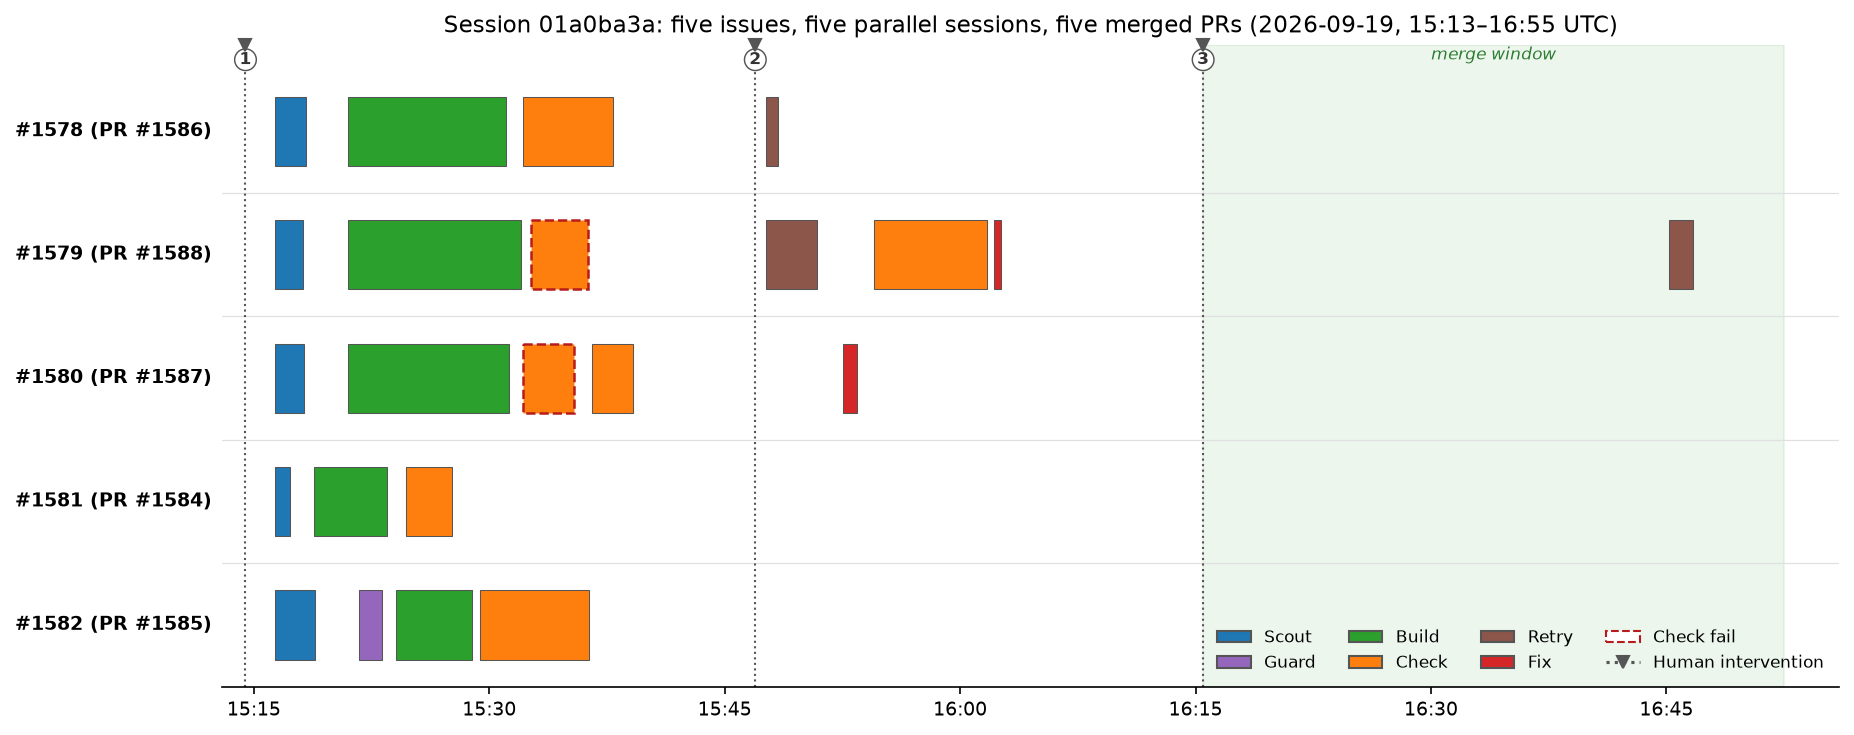
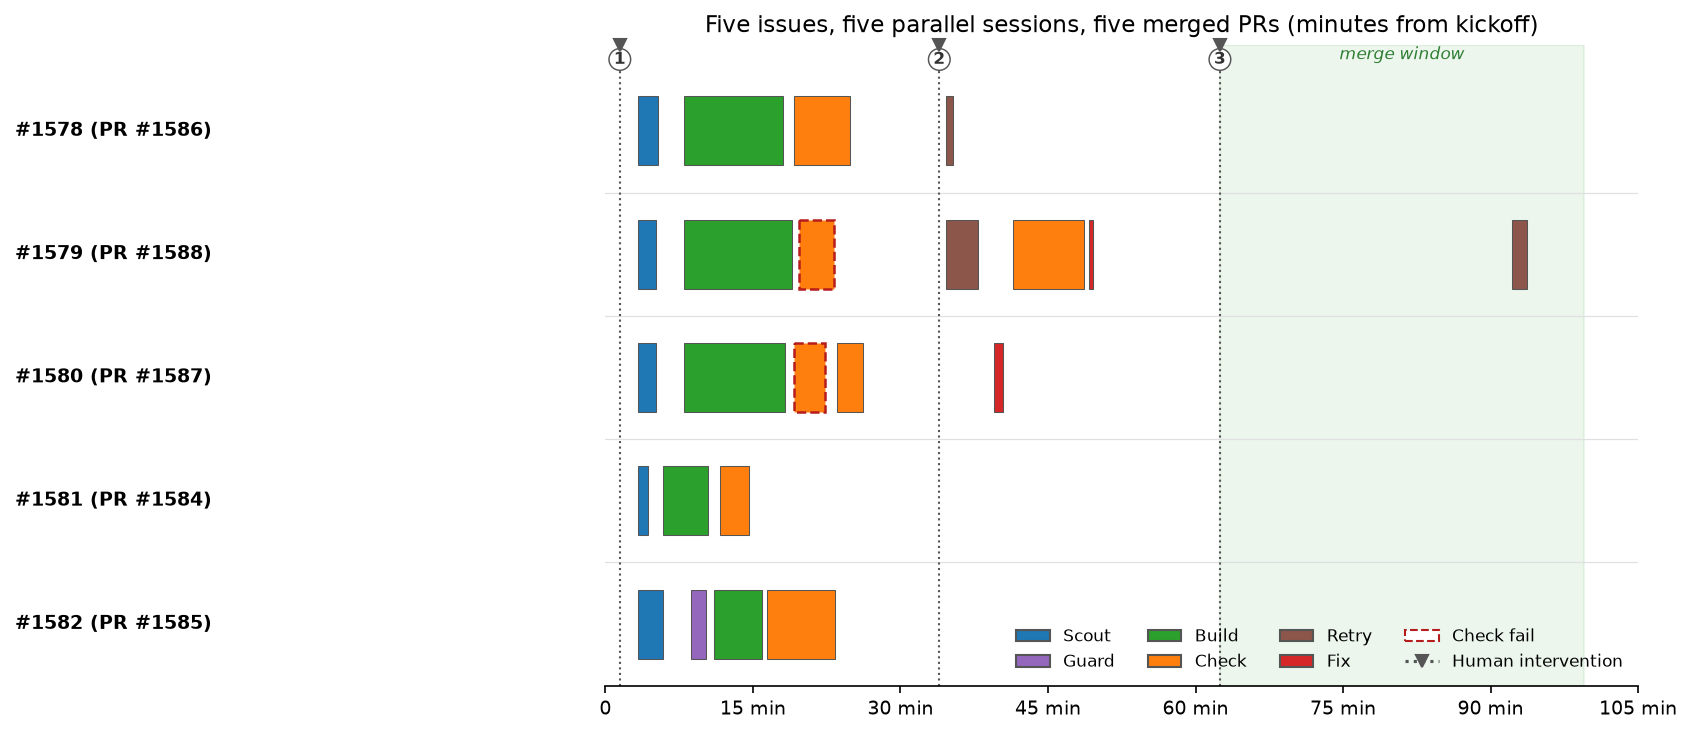
docs(examples): plot timeline in minutes from kickoff, drop clock times
Relative time is clearer and the run is not an audit; also fix a leftover
'16 subagent spawns' in the intro paragraph.

diff --git a/figures/fig-session-timeline.py b/figures/fig-session-timeline.py
@@ -12,8 +12,11 @@ import matplotlib.pyplot as plt
 from matplotlib.patches import Patch
 
 def t(hhmmss):
+    """Minutes since session start (15:13:00), the figure's t=0."""
     h, m, s = map(int, hhmmss.split(":"))
-    return h * 3600 + m * 60 + s
+    return (h * 3600 + m * 60 + s - t.ZERO) / 60.0
+
+t.ZERO = 15 * 3600 + 13 * 60
 
 # (start, end, kind, row) -- rows: 0..4 = lanes for #1578 #1579 #1580 #1581 #1582.
 # Kinds: SCOUT, GUARD, BUILD, CHECK; suffix "_FAIL" draws a hatched red overlay.
@@ -67,8 +70,8 @@ INTERVENTIONS = [
     ("16:15:29", "authorize ordered merge"),
 ]
 
-T0, T1 = t("15:13:00"), t("16:56:00")
-MERGE0, MERGE1 = t("16:15:29"), t("16:52:30")
+T0, T1 = 0, t("16:56:00")
+MERGE0, MERGE1 = t("16:15:29"), t("16:52:30")  # relative minutes
 
 fig, ax = plt.subplots(figsize=(12.5, 5.0))
 ax.set_xlim(T0, T1)
@@ -109,9 +112,8 @@ for i, (ts, label) in enumerate(INTERVENTIONS, 1):
             fontsize=8, fontweight="bold", color="#333333",
             bbox=dict(boxstyle="circle,pad=0.15", fc="white", ec="#555555", lw=0.7))
 
-ticks = ["15:15", "15:30", "15:45", "16:00", "16:15", "16:30", "16:45"]
-ax.set_xticks([t(x + ":00") for x in ticks])
-ax.set_xticklabels(ticks, fontsize=9)
+ax.set_xticks(range(0, 111, 15))
+ax.set_xticklabels([f"{m} min" if m else "0" for m in range(0, 111, 15)], fontsize=9)
 ax.set_yticks([])
 for spine in ("top", "right", "left"):
     ax.spines[spine].set_visible(False)
@@ -124,8 +126,8 @@ handles.append(plt.Line2D([0], [0], color="#555555", linestyle=":", marker="v",
                           label="Human intervention"))
 ax.legend(handles=handles, loc="lower right", fontsize=8, ncol=4, frameon=False)
 
-ax.set_title("Session 01a0ba3a: five issues, five parallel sessions, five merged PRs "
-             "(2026-09-19, 15:13\u201316:55 UTC)", fontsize=11)
+ax.set_title("Five issues, five parallel sessions, five merged PRs "
+             "(minutes from kickoff)", fontsize=11)
 
 plt.tight_layout()
 plt.savefig("figures/fig-session-timeline.png", dpi=150, bbox_inches="tight")

diff --git a/docs/examples/2026-09-aptu-coder-5-issues.md b/docs/examples/2026-09-aptu-coder-5-issues.md
@@ -5,8 +5,8 @@ refactoring issues (1578–1582) against `clouatre-labs/aptu-coder` (Rust worksp
 single orchestrated run. The orchestrator classified all five via `typesafe-judge`, ran
 five parallel single-issue sessions with per-session worktrees and handoff directories,
 and produced PRs #1584–#1588: all approved by an external LLM review gate, CI green,
-squash-merged in dependency order. Total wall clock: 15:12:50–16:55:21 UTC (~1h42m),
-16 subagent spawns, 3 human interventions — all approvals/steering, zero rescues. Net
+squash-merged in dependency order. Total wall clock: about 1h42m,
+22 subagent spawns, 3 human interventions — all approvals/steering, zero rescues. Net
 result was a reduction in lines of code.
 
 ## The task
@@ -53,9 +53,10 @@ Twenty-two subagent spawns in total — 5 `coder-scout`, 1 `coder-guard`, 12
 
 ![Timeline of the 22 agent spawns across the 5 parallel sessions](../../figures/fig-session-timeline.png)
 
-*Figure 1: Timeline of the 22 agent spawns (scout/guard/build/check, with retries and fixes)
- across the five parallel sessions, 15:13–16:55 UTC. Dashed markers show the three
- human steering interventions; the shaded band is the merge window.*
+*Figure 1: Timeline of the 22 agent spawns (scout/guard/build/check, with retries and
+fixes) across the five parallel sessions, plotted in minutes from kickoff. Dashed
+markers show the three human steering interventions; the shaded band is the merge
+window.*
 
 ## What went right
 
